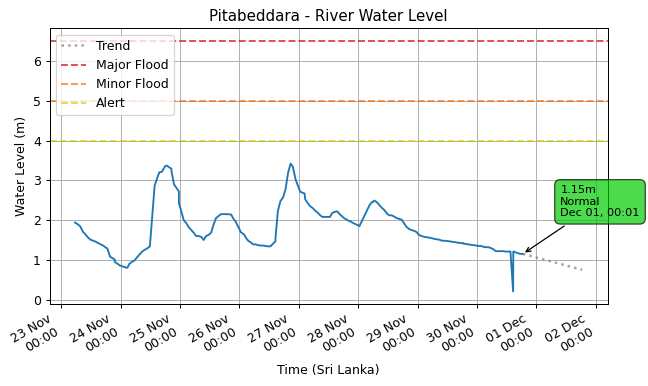
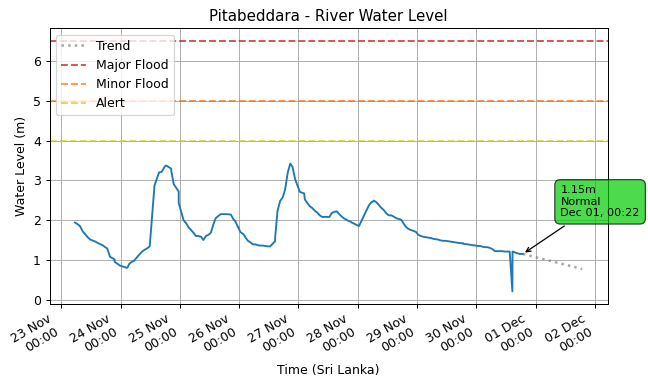
🤖 [update_latest.yml] 2025-11-30-1902

diff --git a/README.md b/README.md
@@ -1,11 +1,11 @@
 # lk_irrigation 🇱🇰
 
 ![Status: Live](https://img.shields.io/badge/status-live-brightgreen)
-![LastUpdated](https://img.shields.io/badge/last_updated-2025--12--01_00:20:00-green)
+![LastUpdated](https://img.shields.io/badge/last_updated-2025--12--01_00:24:57-green)
 
 Realtime Data about *River Water Levels* in Sri Lanka, from the [Irrigation Deptartment](https://www.irrigation.gov.lk)'s [Hydrology and Disaster Management](https://www.irrigation.gov.lk/web/index.php?option=com_content&view=article&id=27&Itemid=128&lang=en) Division.
 
-- [Complete Dataset](data/rwlds) with **6,263 measurements** from **39** stations.
+- [Complete Dataset](data/rwlds) with **6,265 measurements** from **39** stations.
 - [Scrape and load logic](src/lk_irrigation/rwld/RiverWaterLevelDataLoadMixin.py)
 - [Original Data source](https://www.arcgis.com/apps/dashboards/2cffe83c9ff5497d97375498bdf3ff38)
 
@@ -15,10 +15,12 @@ Realtime Data about *River Water Levels* in Sri Lanka, from the [Irrigation Dept
 
 ## Latest measurements
 
-*There were **31** measurements in the last **1 hour**.*
+*There were **33** measurements in the last **1 hour**.*
 
 | Measured At | Station (River Basin) | Level (m) | Alert Level | Rate-of-Rise (m/hr) | Rising Alert |
 | --- | --- | ---: | --- | ---: | --- |
+| 2025-12-01 00:24:57 | Badalgama (Maha Oya) | 5.05 | 🟡 Alert | -0.313 |  |
+| 2025-12-01 00:22:22 | Pitabeddara (Nilwala Ganga) | 1.15 | 🟢 Normal | 0.000 |  |
 | 2025-12-01 00:20:00 | Giriulla (Maha Oya) | 3.70 | 🟢 Normal | -0.043 |  |
 | 2025-12-01 00:09:25 | Thanthirimale (Malwathu Oya) | 10.64 | 🔴 Major Flood | -0.033 |  |
 | 2025-12-01 00:08:26 | Wellawaya (Kirindi Oya) | 1.23 | 🟢 Normal | 0.000 |  |
@@ -72,10 +74,10 @@ Realtime Data about *River Water Levels* in Sri Lanka, from the [Irrigation Dept
 | 2025-12-01 00:01:48 | Kalawellawa (Millakanda) (Kalu Ganga) | 7.58 | 🟠 Minor Flood | -0.026 |  |
 | 2025-12-01 00:00:11 | Horowpothana (Yan Oya) | 7.43 | 🟡 Alert | -0.041 |  |
 | 2025-12-01 00:03:41 | Rathnapura (Kalu Ganga) | 6.20 | 🟡 Alert | -0.061 |  |
-| 2025-11-30 21:05:35 | Badalgama (Maha Oya) | 6.09 | 🟡 Alert | -0.312 |  |
+| 2025-12-01 00:24:57 | Badalgama (Maha Oya) | 5.05 | 🟡 Alert | -0.313 |  |
 | 2025-12-01 00:08:26 | Wellawaya (Kirindi Oya) | 1.23 | 🟢 Normal | 0.000 |  |
 | 2025-12-01 00:02:12 | Nakkala (Kumbukkan Oya) | 1.76 | 🟢 Normal | 0.000 |  |
-| 2025-12-01 00:01:44 | Pitabeddara (Nilwala Ganga) | 1.15 | 🟢 Normal | 0.000 |  |
+| 2025-12-01 00:22:22 | Pitabeddara (Nilwala Ganga) | 1.15 | 🟢 Normal | 0.000 |  |
 | 2025-12-01 00:03:10 | Norwood (Kelani Ganga) | 1.35 | 🟢 Normal | 0.000 |  |
 | 2025-12-01 00:04:17 | Katharagama (Menik Ganga) | 0.95 | 🟢 Normal | 0.000 |  |
 | 2025-12-01 00:02:58 | Thawalama (Gin Ganga) | 2.10 | 🟢 Normal | 0.000 |  |
